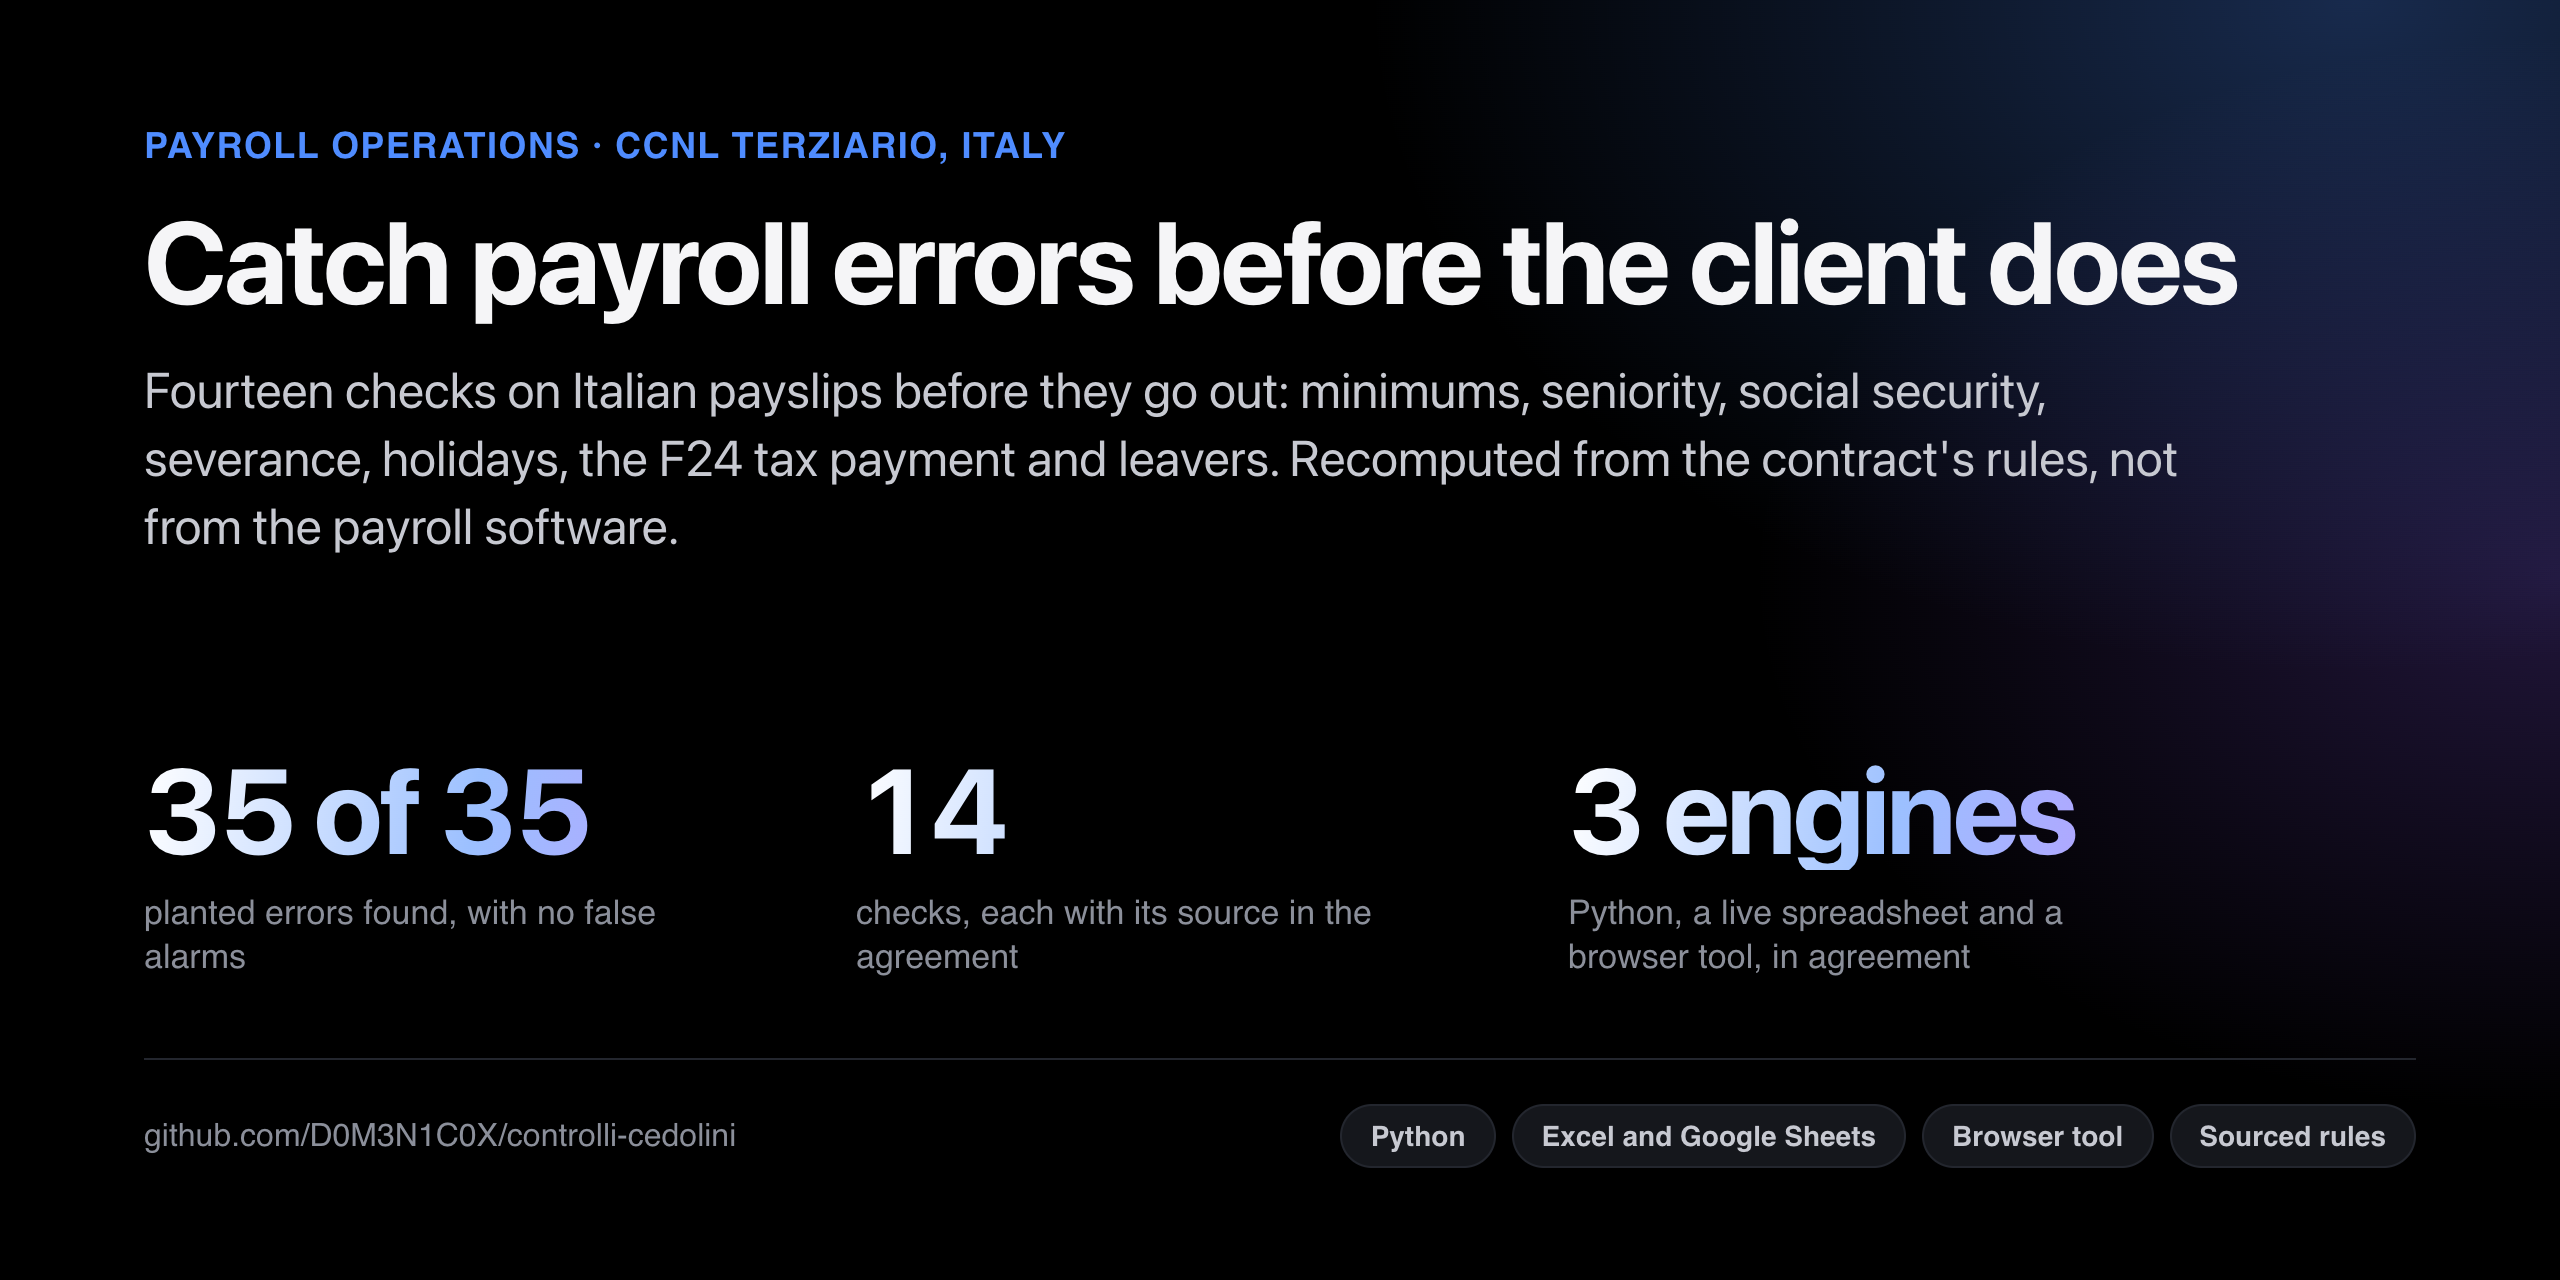
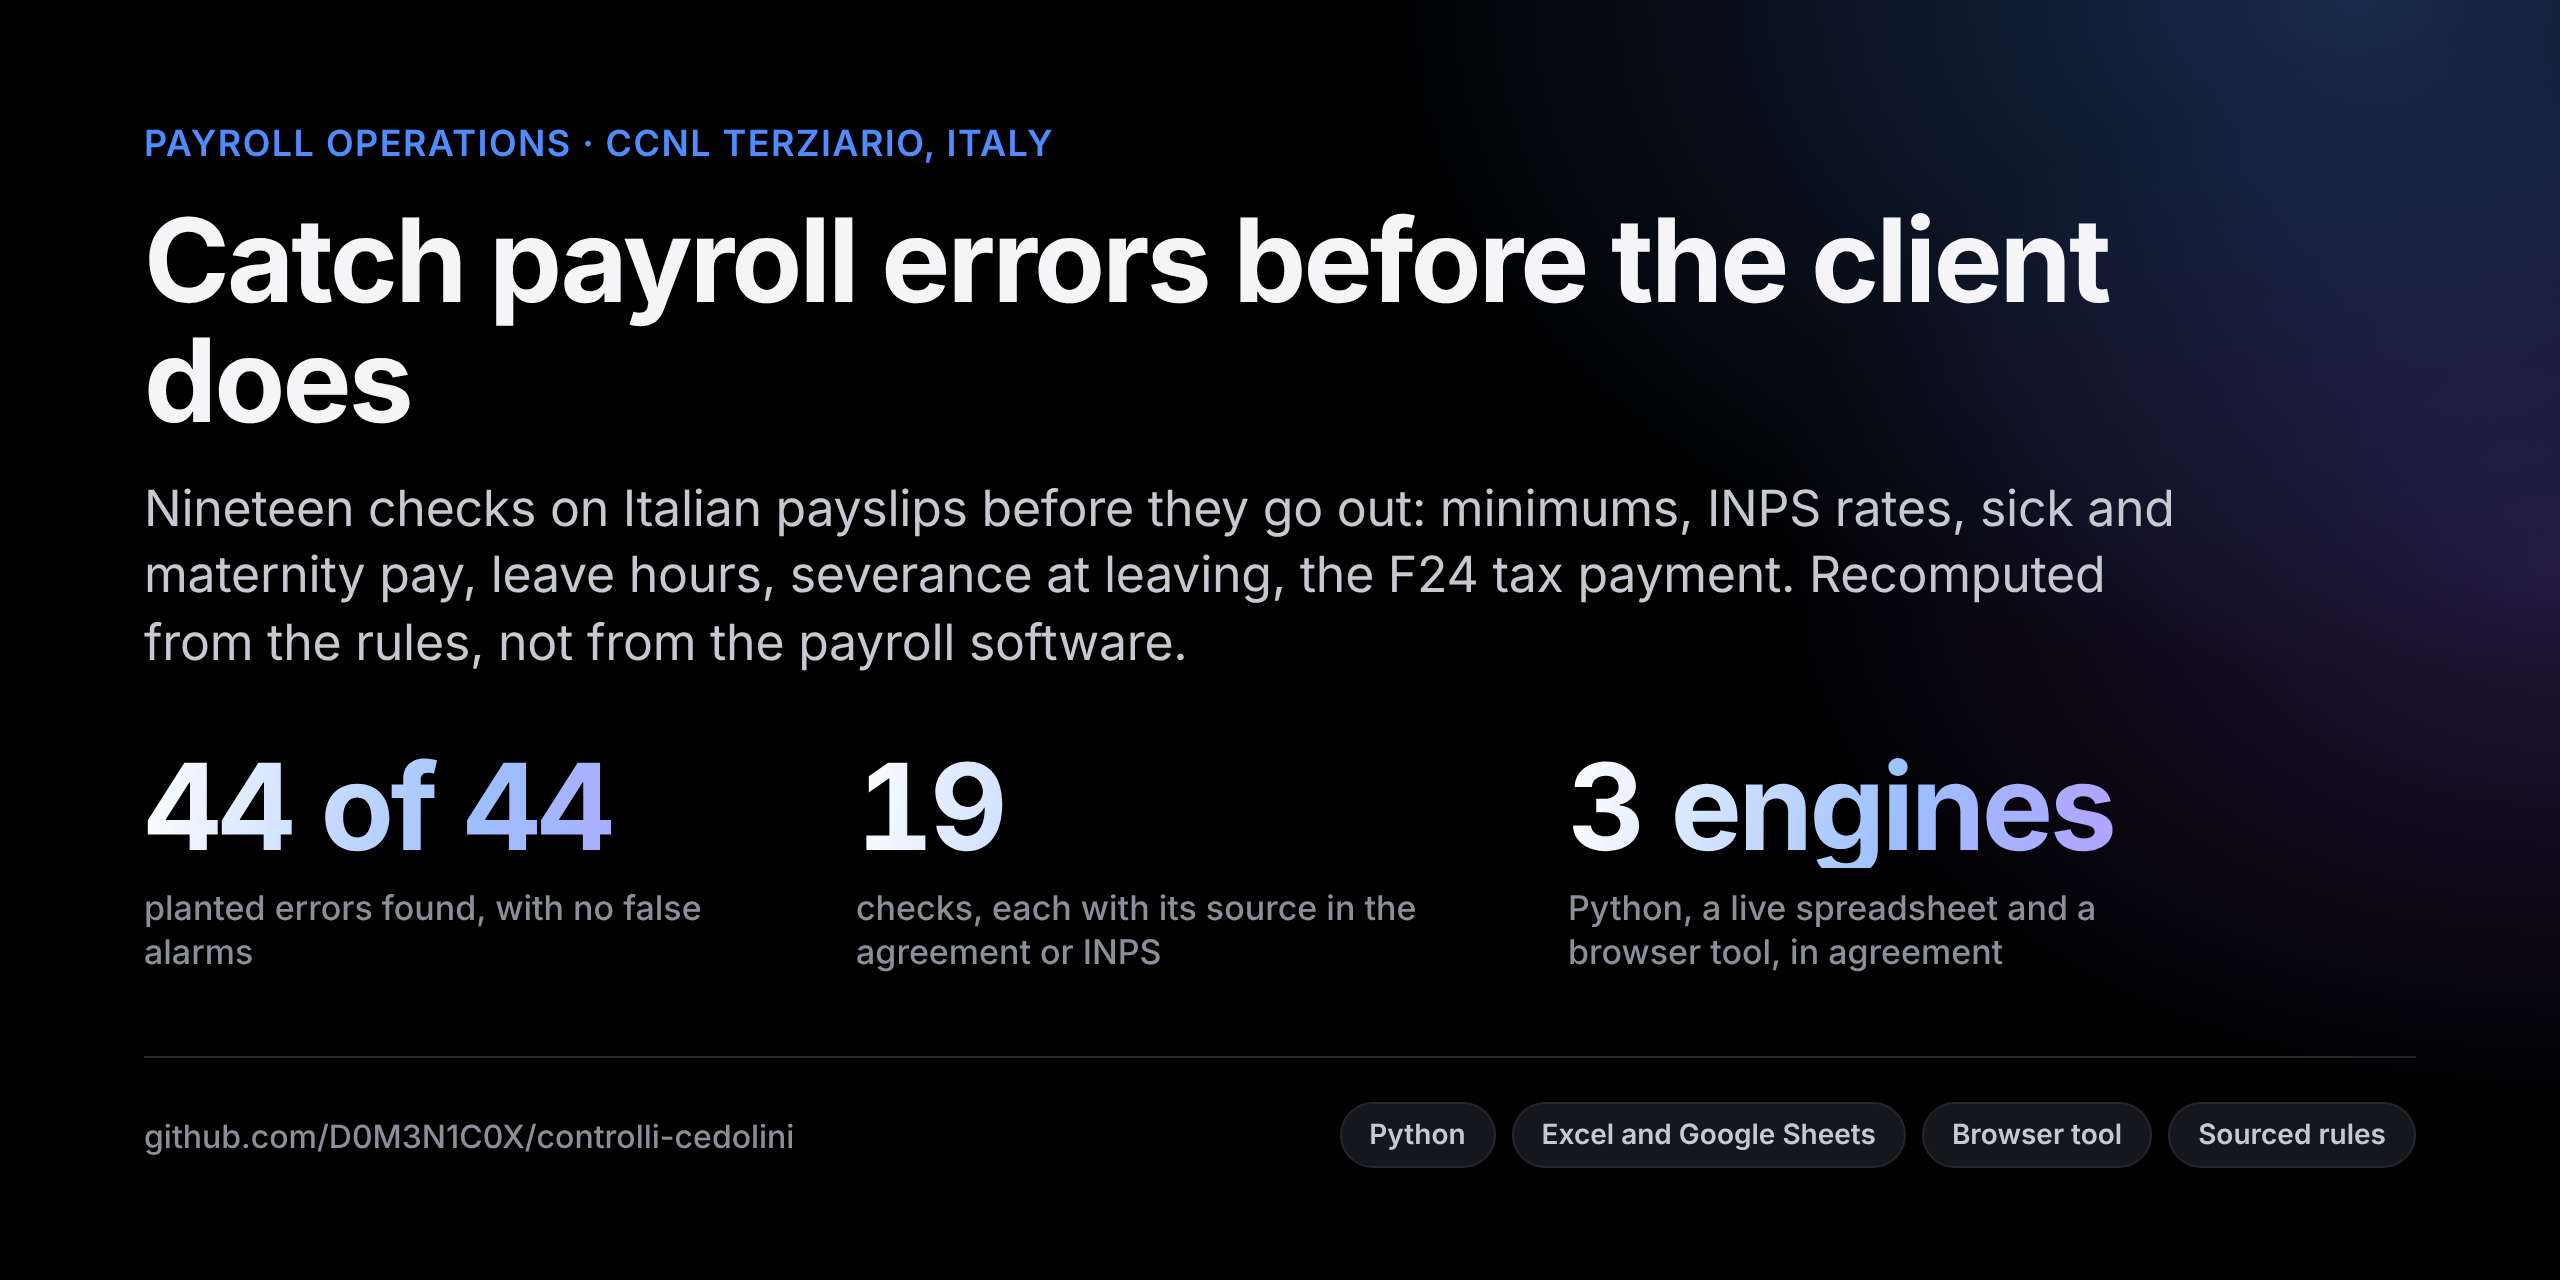
Covers and link previews for v2: 44 of 44, nineteen checks
The cover images, the social card and the page descriptions still showed
the v1 figures (35 of 35, fourteen checks); the report's opening note
still said fourteen. Rendered with the portfolio's brand template
(tools/covers.py in d0m3n1c0x.github.io).

Claude-Session: https://claude.ai/code/session_014XHqeApKr46St4VSU6sEYL

diff --git a/report/index.html b/report/index.html
@@ -97,7 +97,7 @@ footer.colophon{max-width:44rem; margin:3.5rem auto 0; padding-top:1.25rem; bord
 </style>
 </head><body><div class="page"><article class="doc"><header class="masthead"><p class="eyebrow">Rapporto di controllo &middot; CCNL Terziario Confcommercio</p><h1>Controlli sui cedolini di settembre 2026</h1>
 <dl class="meta"><dt>Perimetro</dt><dd>3 clienti con il CCNL Terziario Confcommercio, 124 cedolini di settembre confrontati con quelli di agosto e con gli F24</dd><dt>Dati</dt><dd>Clienti e dipendenti inventati, con errori inseriti apposta; minimi e scatti del CCNL reali, con le fonti in <a href="https://github.com/D0M3N1C0X/controlli-cedolini/blob/main/docs/fonti.md">docs/fonti.md</a></dd><dt>Strumenti</dt><dd>Uno script Python, lo stesso controllo in un <a href="foglio_controllo_cedolini.xlsx">foglio di calcolo</a> e uno <a href="https://d0m3n1c0x.github.io/controlli-cedolini/strumento/">strumento nel browser</a> dove i file restano sul computer</dd></dl></header>
-<div class="notice">Quattordici controlli da passare prima di mandare i cedolini al cliente. I controlli ricalcolano ogni voce dalle regole del contratto, o la confrontano con il mese prima e con l'F24: non serve sapere come l'ha calcolata il software paghe. Non è consulenza del lavoro.</div>
+<div class="notice">Diciannove controlli da passare prima di mandare i cedolini al cliente. I controlli ricalcolano ogni voce dalle regole del contratto e dell'INPS, o la confrontano con il mese prima e con l'F24: non serve sapere come l'ha calcolata il software paghe. Non è consulenza del lavoro.</div>
 <h2><span>In sintesi</span></h2>
 <ul><li><strong>44 segnalazioni: 42 cedolini e 1 F24</strong>, 30 ad alta priorità; cliente A 9, cliente B 27, cliente C 8.</li><li><strong>6 dipendenti sono pagati sotto il minimo:</strong> il tabellare è fermo alla tranche di marzo 2025. Mancano 175,44 € al mese in tutto, più gli arretrati da novembre 2025.</li><li><strong>L'F24 del cliente C ha 212,40 € di ritenute in meno</strong> della somma dei cedolini: va integrato prima della scadenza del versamento.</li><li><strong>Dal 1° novembre 2026 i minimi salgono:</strong> 3.892,67 € al mese per 118 dipendenti. Il superminimo assorbibile ne copre 1.443,69 € in 44 casi; restano 2.448,98 € al mese, 34.286 € l'anno su 14 mensilità.</li><li><strong>I controlli trovano ogni alterazione sopra il centesimo:</strong> tutte le 861 delle 1.100 prove casuali che superano il centesimo (sezione 4). Un errore coerente lo vedono solo se nasce da un cambio rispetto al mese prima (C10).</li></ul>
 <h2><span class="num">01</span><span>Le segnalazioni, cedolino per cedolino</span></h2>

diff --git a/site-assets/og-meta.html b/site-assets/og-meta.html
@@ -1,7 +1,7 @@
-<meta name="description" content="Quattordici controlli sui cedolini del mese, prima dell'invio al cliente: minimi e scatti del CCNL Terziario, contributi, TFR, ferie, F24, codice fiscale, anagrafica, ratei e cessazioni, e il costo della tranche di novembre 2026. Python, un foglio che si apre in Google Sheets e uno strumento nel browser.">
+<meta name="description" content="Diciannove controlli sui cedolini del mese, prima dell'invio al cliente: minimi e scatti del CCNL Terziario, aliquote INPS della posizione, malattia e maternità, permessi, TFR alla cessazione, ferie, F24, codice fiscale, anagrafica, ratei e cessazioni, e il costo della tranche di novembre 2026. Python, un foglio che si apre in Google Sheets e uno strumento nel browser.">
 <meta property="og:type" content="website">
 <meta property="og:title" content="Controlli cedolini">
-<meta property="og:description" content="Quattordici controlli sui cedolini del mese, prima dell'invio al cliente: minimi e scatti del CCNL Terziario, contributi, TFR, ferie, F24, codice fiscale, anagrafica, ratei e cessazioni, e il costo della tranche di novembre 2026.">
+<meta property="og:description" content="Diciannove controlli sui cedolini del mese, prima dell'invio al cliente: minimi e scatti del CCNL Terziario, aliquote INPS della posizione, malattia e maternità, permessi, TFR alla cessazione, ferie, F24, codice fiscale, anagrafica, ratei e cessazioni, e il costo della tranche di novembre 2026.">
 <meta property="og:url" content="https://d0m3n1c0x.github.io/controlli-cedolini/">
 <meta property="og:image" content="https://d0m3n1c0x.github.io/controlli-cedolini/og.png">
 <meta property="og:image:width" content="1280">

diff --git a/src/build_rapporto.py b/src/build_rapporto.py
@@ -97,9 +97,9 @@ def write(o: dict, rob: pd.DataFrame, coerente: dict) -> dict:
     add("**Strumenti:** Uno script Python, lo stesso controllo in un [foglio di calcolo](../deliverables/foglio_controllo_cedolini.xlsx) "
         "e uno [strumento nel browser](https://d0m3n1c0x.github.io/controlli-cedolini/strumento/) dove i file restano sul computer")
     add("")
-    add("> Quattordici controlli da passare prima di mandare i cedolini al cliente. I controlli ricalcolano "
-        "ogni voce dalle regole del contratto, o la confrontano con il mese prima e con l'F24: non serve sapere come "
-        "l'ha calcolata il software paghe. "
+    add("> Diciannove controlli da passare prima di mandare i cedolini al cliente. I controlli ricalcolano "
+        "ogni voce dalle regole del contratto e dell'INPS, o la confrontano con il mese prima e con l'F24: "
+        "non serve sapere come l'ha calcolata il software paghe. "
         "Non è consulenza del lavoro.")
     add("")
     add("## In sintesi")

diff --git a/report/rapporto.md b/report/rapporto.md
@@ -4,7 +4,7 @@
 **Dati:** Clienti e dipendenti inventati, con errori inseriti apposta; minimi e scatti del CCNL reali, con le fonti in [docs/fonti.md](../docs/fonti.md)
 **Strumenti:** Uno script Python, lo stesso controllo in un [foglio di calcolo](../deliverables/foglio_controllo_cedolini.xlsx) e uno [strumento nel browser](https://d0m3n1c0x.github.io/controlli-cedolini/strumento/) dove i file restano sul computer
 
-> Quattordici controlli da passare prima di mandare i cedolini al cliente. I controlli ricalcolano ogni voce dalle regole del contratto, o la confrontano con il mese prima e con l'F24: non serve sapere come l'ha calcolata il software paghe. Non è consulenza del lavoro.
+> Diciannove controlli da passare prima di mandare i cedolini al cliente. I controlli ricalcolano ogni voce dalle regole del contratto e dell'INPS, o la confrontano con il mese prima e con l'F24: non serve sapere come l'ha calcolata il software paghe. Non è consulenza del lavoro.
 
 ## In sintesi
 

diff --git a/README.md b/README.md
@@ -1,6 +1,6 @@
 <picture>
   <source media="(prefers-color-scheme: dark)" srcset="site-assets/cover-dark.png">
-  <img alt="Catch payroll errors before the client does: 35 of 35 planted errors found with no false alarms, 14 checks with their source in the agreement, three engines in agreement." src="site-assets/cover-light.png">
+  <img alt="Catch payroll errors before the client does: 44 of 44 planted errors found with no false alarms, 19 checks with their source in the agreement or INPS, three engines in agreement." src="site-assets/cover-light.png">
 </picture>
 
 <p align="center">
